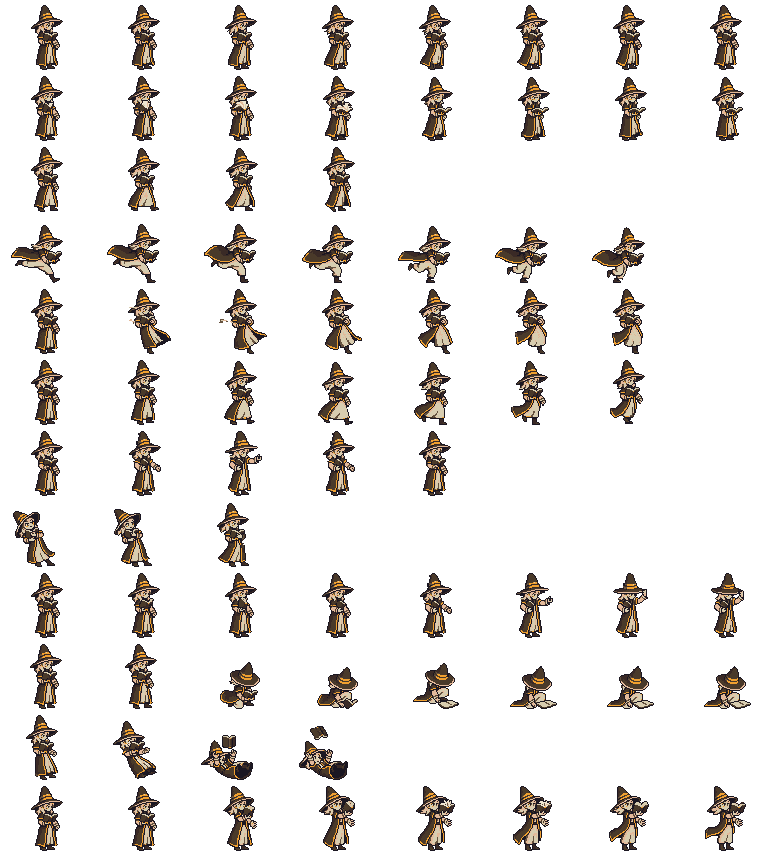
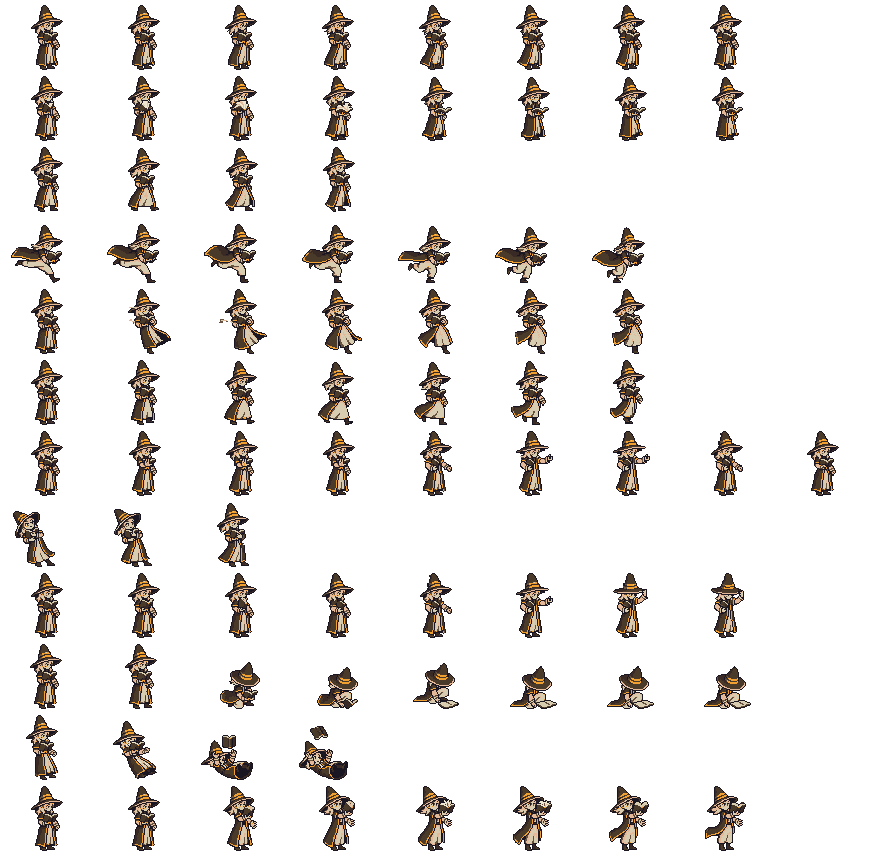
fix: steps animate again after a cast with a short cast clip
The Mage's 5-frame cast_gesture ended on frame 4, the cast pack's coil
(gesture_hold_frame). At launch UnitLayer seeked to the slash frame 5,
which clamped back onto 4 every tick, so the clip never finished and the
hero stayed in cast_gesture: no step or dash clip after a cast. The hold
logic is now the pure UnitLayer.cast_hold_step with the coil clamped to
count - 2 (regression test watched failing on the old rule), and the Mage
cast is rebuilt as 9 frames on the Knight's timings: coil = hand pulled
back (frame 4), slash = palm out (frame 5).

Task: design/assets/specs/mage-assets.md (ASSET-030, fix-cast-hold)

diff --git a/design/assets/specs/mage-assets.md b/design/assets/specs/mage-assets.md
@@ -25,3 +25,4 @@ clips with `animate_character` PixMiniMax south-east. Every paid call is approve
 | anim02-5clips | 2026-11-04 | `animate_image_pixminimax` x5, same first frame and settings, positive motion prompts only | step `3a75d836`, cast `303e532f`, victory `60758c69`, awaken `07e2bc57`, fall `54df5dd9` | 5 gen (approved: "Duyệt, gen 5 clip") | `anim02/<clip>_v2/`, strip `anim02-v2-step-cast-victory-awaken-fall-x2.png` | All clean: 0 red, at most 45 off-palette pixels (specks, removed by the cleanup). The cast clip barely moves the free hand, so `cast_gesture` uses victory f5 (hand pulled back) and f6 (palm out) between cast f2 and f8. fall: the hat comes off and the book flies up. |
 | sheet-01 | 2026-11-04 | local Godot cleanup (free) + `export_sheets.py --units phap_su` | snap to the 8 colours, specks < 12 px removed, each piece lifted so its lowest row is 74 (defeat: body 2 px, dropped book 9 px; fall f4 1 px), crop rows 5..74 to 96x70 | 0 | `art_src/units/phap_su/` (idle 8 @125 ms loop, step 4 @100 loop, cast_gesture 5 [60,80,200,80,100] once, hit 3 @40 once = raw hit f4-f6, victory 8 @100 hold_last, defeat 8 @100 hold_last, fall 4 @100 hold_last = f2-f5, awaken 8 @120 loop); `assets/art/units/unit_phap_su_sheet.png`; evidence `production/qa/evidence/mage-sprite/` (01 in battle, 02 the sheet) | Replaces the temporary one-frame sheet. sheet_export, sprite_sheet, roster_sprite, unit_step_glide tests pass. Total for the Mage: anchor 7 + clips 8 + 1 + 5 = 21 gen. Not made: `draw` and the 4 dash clips (the game falls back to idle / step). |
 | anim02-draw-dash | 2026-11-04 | `animate_image_pixminimax` x5, same first frame and settings; draw "opens the book with a flick of the wrist, pages fan open, glances down at the page, settles into a ready stance"; step_forward / step_back / step_up / step_down worded as the Knight's dashes ("quick dash forward to the right ...", "quick back-dash to the left while still facing right ...", "quick sidestep away from / toward the camera while facing right ...") | draw `f9a5d855`, forward `97d4aede`, back `ebc3f420`, up `8fa20a7e`, down `8c416a08` | 5 gen (approved: "Duyệt, gen 5 clip") | raw `anim02/<clip>/`, strip `anim02-draw-dash-raw-x2.png` | All clean (0 red, <= 29 off-palette specks). Kept: draw (8 frames, once, Knight timings), step_forward / step_back / step_down (src f1-f7, 50 ms, once), each recentred on the head (x 47; shifts -13 forward, +17..+22 back, -2..-3 down) because the model bakes the travel and the game glides the unit. **step_up rejected**: from f3 it turns to a back view, same as the Knight's; the up step plays `step`. Mage total: 26 gen. |
+| fix-cast-hold | 2026-11-04 | code + local rebuild (free) | user: "sau khi cast thì animation di chuyển bị mất". The 5-frame cast_gesture ended on frame 4 = the cast pack's gesture_hold_frame (coil); at launch UnitLayer seeked to the slash frame 5, which clamped back to 4, every tick, so the clip never finished and the hero stayed in cast_gesture (no step clips). Fixed in `UnitLayer.cast_hold_step` (coil clamped to count - 2; regression test `tests/unit/battle/cast_hold_short_clip_test.gd`, seen failing on the old rule) and the Mage cast rebuilt as 9 frames on the Knight's timings: cast f2, f4, f6, f7, victory f5 (coil, frame 4), victory f6 x2 (palm out = slash, frame 5), victory f5, cast f8 | 0 | `art_src/units/phap_su/cast_gesture/0-8.png`; evidence `production/qa/evidence/mage-sprite/03-steps-after-cast.png` | In battle after a Hỏa Trận cast: cast_gesture then idle, then step_forward and step_back play. |
